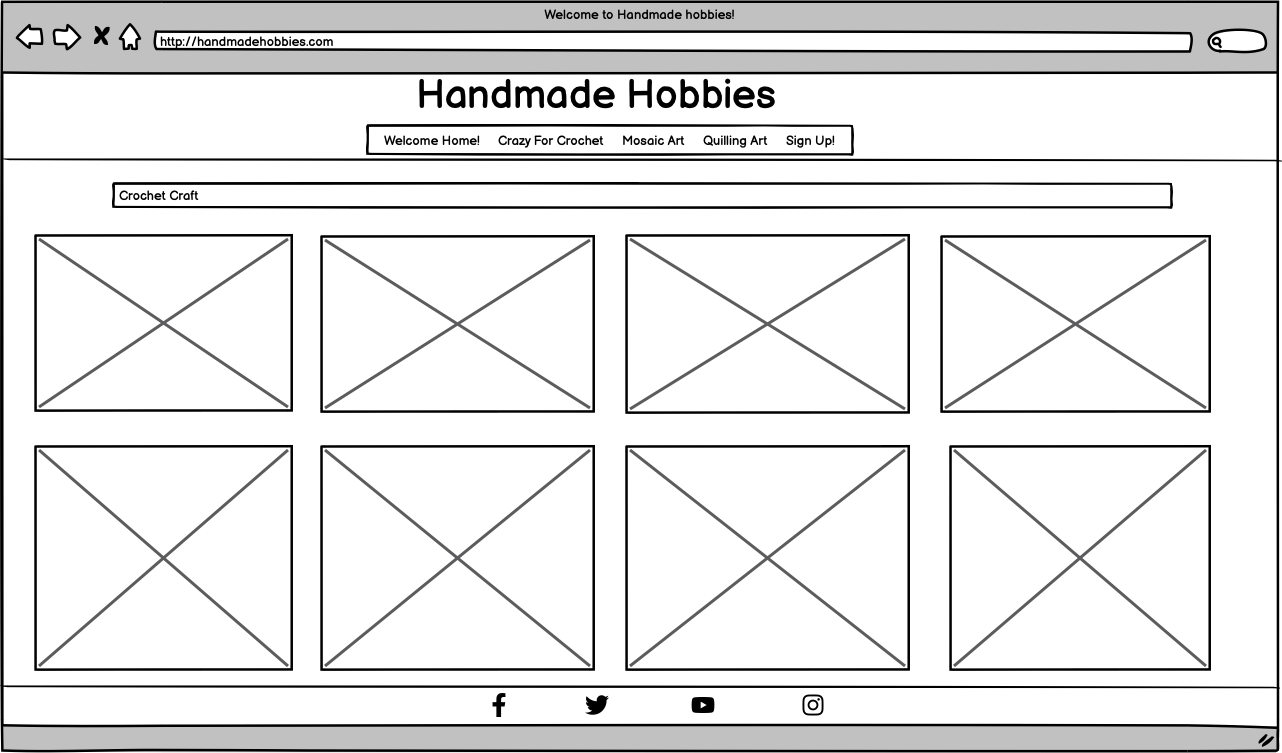
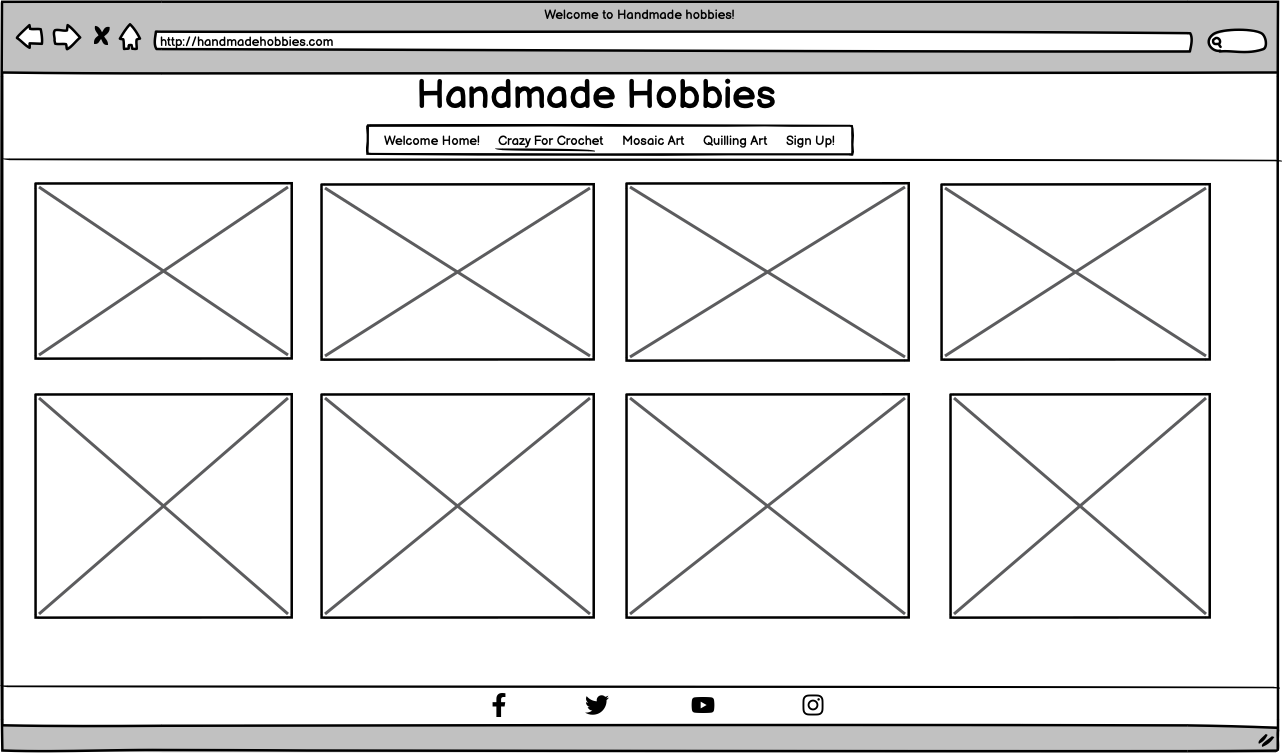
Replaced some of the wireframes and made respective gallery pages as active

diff --git a/crazyforcrochet.html b/crazyforcrochet.html
@@ -35,8 +35,8 @@
         <!-- Adding Navigation bar-->
         <nav>
             <ul id="menu">
-                <li><a href="index.html" class="active">Welcome Home!</a></li>
-                <li><a href="crazyforcrochet.html">Crazy For Crochet</a></li>
+                <li><a href="index.html">Welcome Home!</a></li>
+                <li><a href="crazyforcrochet.html" class="active">Crazy For Crochet</a></li>
                 <li><a href="mirrorart.html">Mosaic Art</a></li>
                 <li><a href="qullingart.html">Quilling Craft</a></li>
                 <li><a href="signup.html">Sign Up</a></li>
@@ -44,7 +44,17 @@
         </nav>
     </header>
     <main>
-       
+        <section id="reasons">
+            <h2>Crochet</h2>
+            <div id="hobbies">
+                <hr />
+                <p class="paragraphs">
+                    A wide range of creative possibilities are offered by Crochet Craft.
+                    Some examples are clothing, baby items, home decor items, accessories, seasonal items etc.
+                    Please find some of the beautiful collection here.
+                </p>
+            </div>
+        </section>
         <!-- all the gallery images-->
         <section id="crochet">
             <div id="photos">

diff --git a/qullingart.html b/qullingart.html
@@ -35,10 +35,10 @@
         <!-- Adding Navigation bar-->
         <nav>
             <ul id="menu">
-                <li><a href="index.html" class="active">Welcome Home!</a></li>
+                <li><a href="index.html" >Welcome Home!</a></li>
                 <li><a href="crazyforcrochet.html">Crazy For Crochet</a></li>
                 <li><a href="mirrorart.html">Mosaic Art</a></li>
-                <li><a href="qullingart.html">Quilling Craft</a></li>
+                <li><a href="qullingart.html" class="active">Quilling Craft</a></li>
                 <li><a href="signup.html">Sign Up</a></li>
             </ul>
         </nav>

diff --git a/mirrorart.html b/mirrorart.html
@@ -35,9 +35,9 @@
         <!-- Adding Navigation bar-->
         <nav>
             <ul id="menu">
-                <li><a href="index.html" class="active">Welcome Home!</a></li>
+                <li><a href="index.html" >Welcome Home!</a></li>
                 <li><a href="crazyforcrochet.html">Crazy For Crochet</a></li>
-                <li><a href="mirrorart.html">Mosaic Art</a></li>
+                <li><a href="mirrorart.html" class="active">Mosaic Art</a></li>
                 <li><a href="qullingart.html">Quilling Craft</a></li>
                 <li><a href="signup.html">Sign Up</a></li>
             </ul>
